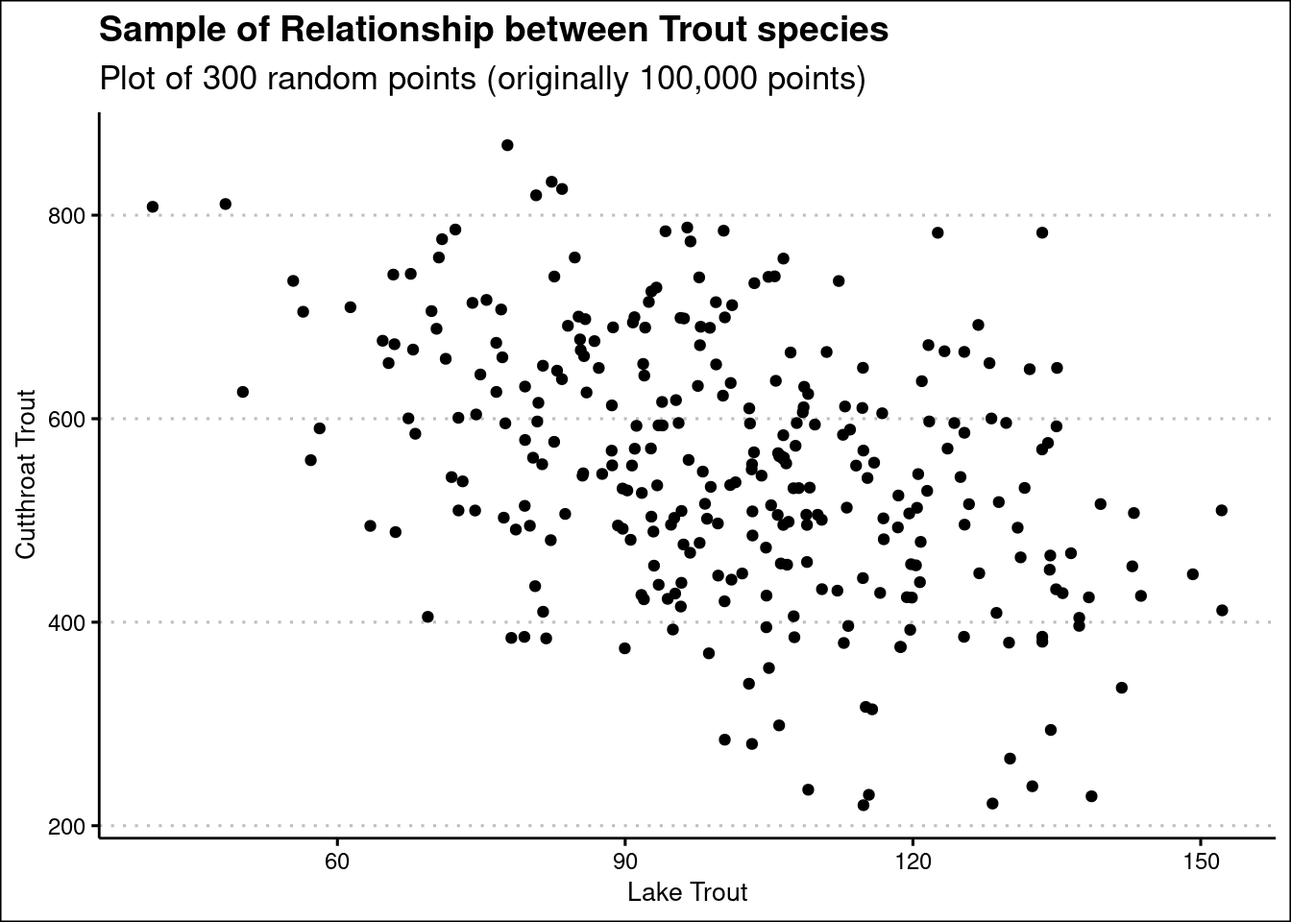
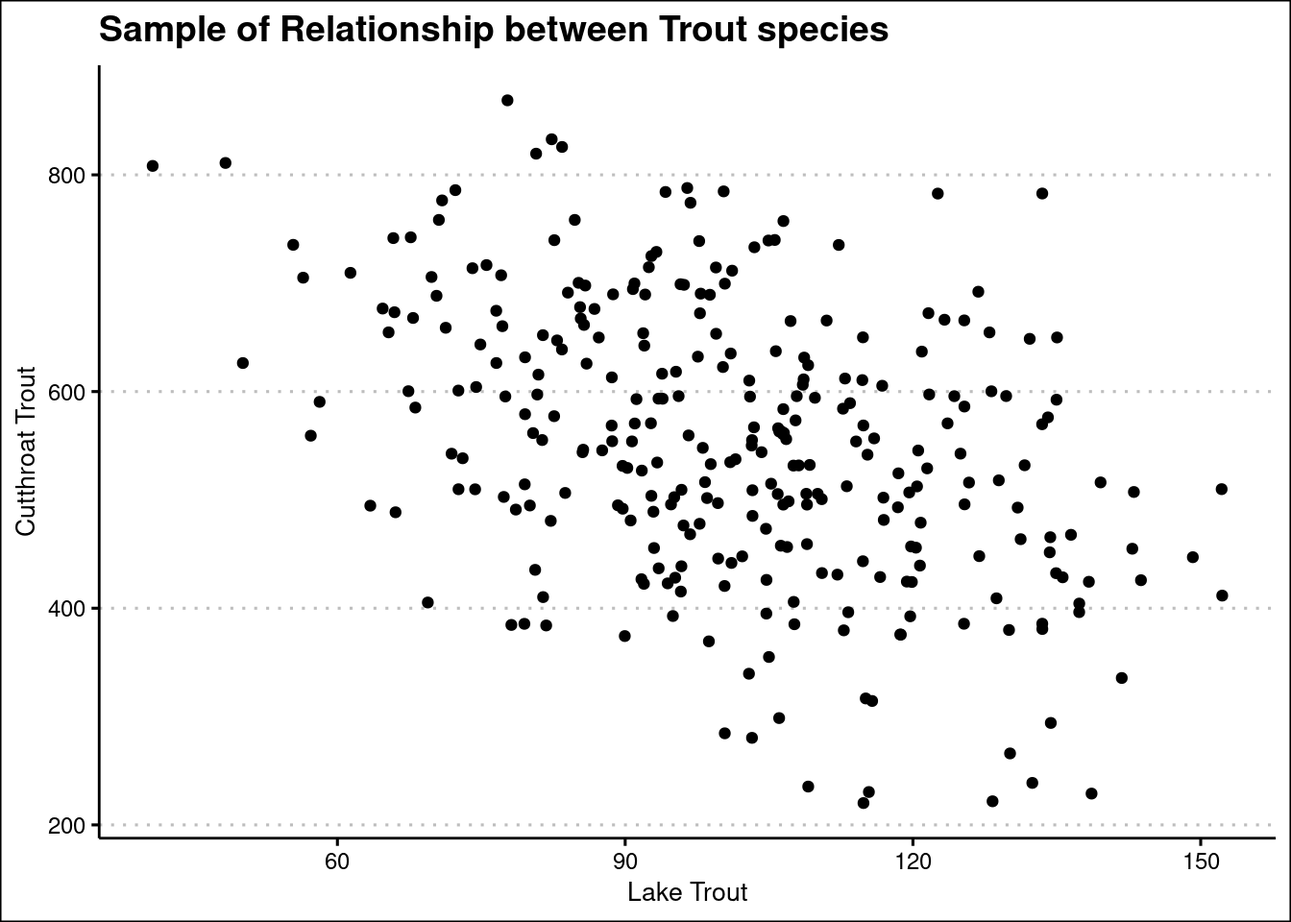
Add visualization and edit functions

diff --git a/hw2.html b/hw2.html
@@ -165,14 +165,13 @@ code span.wa { color: #60a0b0; font-weight: bold; font-style: italic; } /* Warni
 <span id="cb3-5"><a href="#cb3-5" aria-hidden="true" tabindex="-1"></a>  <span class="fu">geom_point</span>()<span class="sc">+</span></span>
 <span id="cb3-6"><a href="#cb3-6" aria-hidden="true" tabindex="-1"></a>  <span class="fu">labs</span>(<span class="at">x =</span> <span class="st">'Lake Trout'</span>,</span>
 <span id="cb3-7"><a href="#cb3-7" aria-hidden="true" tabindex="-1"></a>       <span class="at">y =</span> <span class="st">'Cutthroat Trout'</span>,</span>
-<span id="cb3-8"><a href="#cb3-8" aria-hidden="true" tabindex="-1"></a>       <span class="at">title =</span> <span class="st">'Sample of Relationship between Trout species'</span>,</span>
-<span id="cb3-9"><a href="#cb3-9" aria-hidden="true" tabindex="-1"></a>       <span class="at">subtitle =</span> <span class="st">'Plot of 300 random points (originally 100,000 points)'</span>)<span class="sc">+</span></span>
-<span id="cb3-10"><a href="#cb3-10" aria-hidden="true" tabindex="-1"></a>  ggthemes<span class="sc">::</span><span class="fu">theme_clean</span>()</span></code><button title="Copy to Clipboard" class="code-copy-button"><i class="bi"></i></button></pre></div>
+<span id="cb3-8"><a href="#cb3-8" aria-hidden="true" tabindex="-1"></a>       <span class="at">title =</span> <span class="st">'Sample of Relationship between Trout species'</span>)<span class="sc">+</span></span>
+<span id="cb3-9"><a href="#cb3-9" aria-hidden="true" tabindex="-1"></a>  ggthemes<span class="sc">::</span><span class="fu">theme_clean</span>()</span></code><button title="Copy to Clipboard" class="code-copy-button"><i class="bi"></i></button></pre></div>
 <div class="cell-output-display">
 <div id="fig-pop" class="quarto-figure quarto-figure-center anchored">
 <figure class="figure">
 <p><img src="hw2_files/figure-html/fig-pop-1.png" class="img-fluid figure-img" width="672"></p>
-<p></p><figcaption class="figure-caption">Figure&nbsp;1: <strong>?(caption)</strong></figcaption><p></p>
+<p></p><figcaption class="figure-caption">Figure&nbsp;1: Plot of 300 random points (originally 100,000 points)</figcaption><p></p>
 </figure>
 </div>
 </div>
@@ -181,26 +180,41 @@ code span.wa { color: #60a0b0; font-weight: bold; font-style: italic; } /* Warni
 <p><strong>What’s the coefficient for the effect of lake trout on cutthroat trout in your population? What is it in each of your three samples?</strong></p>
 <p>Use <code>lm()</code> to estimate each of the coefficients.</p>
 <div class="cell">
-<div class="sourceCode cell-code" id="cb4"><pre class="sourceCode r code-with-copy"><code class="sourceCode r"><span id="cb4-1"><a href="#cb4-1" aria-hidden="true" tabindex="-1"></a>trout_lm <span class="ot">&lt;-</span> <span class="fu">lm</span>(cutthroat <span class="sc">~</span> lake_trout, trout_sp);<span class="fu">summary</span>(trout_lm)</span></code><button title="Copy to Clipboard" class="code-copy-button"><i class="bi"></i></button></pre></div>
+<div class="sourceCode cell-code" id="cb4"><pre class="sourceCode r code-with-copy"><code class="sourceCode r"><span id="cb4-1"><a href="#cb4-1" aria-hidden="true" tabindex="-1"></a>sample_list <span class="ot">&lt;-</span> <span class="fu">map</span>(<span class="dv">1</span><span class="sc">:</span><span class="dv">3</span>, <span class="sc">~</span>{</span>
+<span id="cb4-2"><a href="#cb4-2" aria-hidden="true" tabindex="-1"></a></span>
+<span id="cb4-3"><a href="#cb4-3" aria-hidden="true" tabindex="-1"></a> <span class="fu">assign</span>(<span class="fu">paste0</span>(<span class="st">'lake_spl'</span>,.x), <span class="fu">slice_sample</span>(trout_sp, <span class="at">n=</span> <span class="dv">30</span>, <span class="at">replace =</span> <span class="cn">FALSE</span>), <span class="at">envir =</span> .GlobalEnv)</span>
+<span id="cb4-4"><a href="#cb4-4" aria-hidden="true" tabindex="-1"></a>})</span>
+<span id="cb4-5"><a href="#cb4-5" aria-hidden="true" tabindex="-1"></a></span>
+<span id="cb4-6"><a href="#cb4-6" aria-hidden="true" tabindex="-1"></a><span class="cf">for</span> (i <span class="cf">in</span> <span class="fu">seq_along</span>(sample_list)) {</span>
+<span id="cb4-7"><a href="#cb4-7" aria-hidden="true" tabindex="-1"></a></span>
+<span id="cb4-8"><a href="#cb4-8" aria-hidden="true" tabindex="-1"></a>lake_lm <span class="ot">&lt;-</span> <span class="fu">lm</span>(cutthroat <span class="sc">~</span> lake_trout, <span class="at">data =</span> sample_list[[i]])</span>
+<span id="cb4-9"><a href="#cb4-9" aria-hidden="true" tabindex="-1"></a></span>
+<span id="cb4-10"><a href="#cb4-10" aria-hidden="true" tabindex="-1"></a></span>
+<span id="cb4-11"><a href="#cb4-11" aria-hidden="true" tabindex="-1"></a><span class="fu">print</span>(<span class="fu">paste0</span>(<span class="st">'Lake_spl'</span>,{i}, <span class="st">' coefficients are:'</span>))</span>
+<span id="cb4-12"><a href="#cb4-12" aria-hidden="true" tabindex="-1"></a><span class="fu">print</span>(<span class="fu">coef</span>(lake_lm))</span>
+<span id="cb4-13"><a href="#cb4-13" aria-hidden="true" tabindex="-1"></a>}</span></code><button title="Copy to Clipboard" class="code-copy-button"><i class="bi"></i></button></pre></div>
 <div class="cell-output cell-output-stdout">
-<pre><code>
-Call:
-lm(formula = cutthroat ~ lake_trout, data = trout_sp)
-
-Residuals:
-    Min      1Q  Median      3Q     Max 
--526.63  -80.86   -0.09   80.77  504.29 
-
-Coefficients:
-             Estimate Std. Error t value Pr(&gt;|t|)    
-(Intercept) 802.22844    1.94336   412.8   &lt;2e-16 ***
-lake_trout   -2.51602    0.01905  -132.1   &lt;2e-16 ***
----
-Signif. codes:  0 '***' 0.001 '**' 0.01 '*' 0.05 '.' 0.1 ' ' 1
-
-Residual standard error: 120.5 on 99998 degrees of freedom
-Multiple R-squared:  0.1485,    Adjusted R-squared:  0.1485 
-F-statistic: 1.744e+04 on 1 and 99998 DF,  p-value: &lt; 2.2e-16</code></pre>
+<pre><code>[1] "Lake_spl1 coefficients are:"
+(Intercept)  lake_trout 
+ 744.452443   -2.170286 
+[1] "Lake_spl2 coefficients are:"
+(Intercept)  lake_trout 
+ 864.122683   -3.201993 
+[1] "Lake_spl3 coefficients are:"
+(Intercept)  lake_trout 
+ 991.984445   -4.464071 </code></pre>
+</div>
+<div class="sourceCode cell-code" id="cb6"><pre class="sourceCode r code-with-copy"><code class="sourceCode r"><span id="cb6-1"><a href="#cb6-1" aria-hidden="true" tabindex="-1"></a>pop_lm <span class="ot">&lt;-</span> <span class="fu">lm</span>(cutthroat <span class="sc">~</span> lake_trout, <span class="at">data =</span> trout_sp)</span>
+<span id="cb6-2"><a href="#cb6-2" aria-hidden="true" tabindex="-1"></a></span>
+<span id="cb6-3"><a href="#cb6-3" aria-hidden="true" tabindex="-1"></a></span>
+<span id="cb6-4"><a href="#cb6-4" aria-hidden="true" tabindex="-1"></a><span class="fu">print</span>(<span class="st">'Population coefficients are:'</span>)</span></code><button title="Copy to Clipboard" class="code-copy-button"><i class="bi"></i></button></pre></div>
+<div class="cell-output cell-output-stdout">
+<pre><code>[1] "Population coefficients are:"</code></pre>
+</div>
+<div class="sourceCode cell-code" id="cb8"><pre class="sourceCode r code-with-copy"><code class="sourceCode r"><span id="cb8-1"><a href="#cb8-1" aria-hidden="true" tabindex="-1"></a><span class="fu">print</span>(<span class="fu">coef</span>(pop_lm))</span></code><button title="Copy to Clipboard" class="code-copy-button"><i class="bi"></i></button></pre></div>
+<div class="cell-output cell-output-stdout">
+<pre><code>(Intercept)  lake_trout 
+ 802.228444   -2.516023 </code></pre>
 </div>
 </div>
 </section>
@@ -240,34 +254,34 @@ body_mass_g_pval &lt;- penguin_summary$coefficients[2, 4]</code></pre>
 </ol>
 <p>Call <code>p_dist</code> for <code>n</code>’s of 30, 50, and 100. <strong>What fraction of the p values are less than 0.05 for each sample size?</strong></p>
 <div class="cell">
-<div class="sourceCode cell-code" id="cb7"><pre class="sourceCode r code-with-copy"><code class="sourceCode r"><span id="cb7-1"><a href="#cb7-1" aria-hidden="true" tabindex="-1"></a>p_dist <span class="ot">&lt;-</span> <span class="cf">function</span>(n){</span>
-<span id="cb7-2"><a href="#cb7-2" aria-hidden="true" tabindex="-1"></a>  <span class="fu">map_dbl</span>(<span class="dv">1</span><span class="sc">:</span><span class="dv">1000</span>, <span class="sc">~</span>{</span>
-<span id="cb7-3"><a href="#cb7-3" aria-hidden="true" tabindex="-1"></a>trout_sample  <span class="ot">&lt;-</span> trout_sp[<span class="fu">sample</span>(<span class="fu">nrow</span>(trout_sp), n), ]</span>
-<span id="cb7-4"><a href="#cb7-4" aria-hidden="true" tabindex="-1"></a>trout_lm <span class="ot">&lt;-</span> <span class="fu">lm</span>(cutthroat <span class="sc">~</span> lake_trout, trout_sample)</span>
-<span id="cb7-5"><a href="#cb7-5" aria-hidden="true" tabindex="-1"></a>trout_lm_summary <span class="ot">&lt;-</span> <span class="fu">summary</span>(trout_lm)</span>
-<span id="cb7-6"><a href="#cb7-6" aria-hidden="true" tabindex="-1"></a>trout_coefs <span class="ot">&lt;-</span> trout_lm_summary<span class="sc">$</span>coefficients[<span class="dv">2</span>, <span class="dv">4</span>]</span>
-<span id="cb7-7"><a href="#cb7-7" aria-hidden="true" tabindex="-1"></a><span class="fu">return</span>(trout_coefs)</span>
-<span id="cb7-8"><a href="#cb7-8" aria-hidden="true" tabindex="-1"></a>})</span>
-<span id="cb7-9"><a href="#cb7-9" aria-hidden="true" tabindex="-1"></a>}</span>
-<span id="cb7-10"><a href="#cb7-10" aria-hidden="true" tabindex="-1"></a></span>
-<span id="cb7-11"><a href="#cb7-11" aria-hidden="true" tabindex="-1"></a></span>
-<span id="cb7-12"><a href="#cb7-12" aria-hidden="true" tabindex="-1"></a>n_30_fraction <span class="ot">&lt;-</span> <span class="fu">sum</span>(<span class="fu">p_dist</span>(<span class="dv">30</span>) <span class="sc">&lt;</span> .<span class="dv">05</span>) <span class="sc">/</span> <span class="fu">length</span>(<span class="fu">p_dist</span>(<span class="dv">30</span>))</span>
-<span id="cb7-13"><a href="#cb7-13" aria-hidden="true" tabindex="-1"></a></span>
-<span id="cb7-14"><a href="#cb7-14" aria-hidden="true" tabindex="-1"></a>n_50_fraction <span class="ot">&lt;-</span> <span class="fu">sum</span>(<span class="fu">p_dist</span>(<span class="dv">50</span>) <span class="sc">&lt;</span> .<span class="dv">05</span>) <span class="sc">/</span> <span class="fu">length</span>(<span class="fu">p_dist</span>(<span class="dv">50</span>))</span>
-<span id="cb7-15"><a href="#cb7-15" aria-hidden="true" tabindex="-1"></a></span>
-<span id="cb7-16"><a href="#cb7-16" aria-hidden="true" tabindex="-1"></a>n_100_fraction <span class="ot">&lt;-</span> <span class="fu">sum</span>(<span class="fu">p_dist</span>(<span class="dv">100</span>) <span class="sc">&lt;</span> .<span class="dv">05</span>) <span class="sc">/</span> <span class="fu">length</span>(<span class="fu">p_dist</span>(<span class="dv">100</span>))</span>
-<span id="cb7-17"><a href="#cb7-17" aria-hidden="true" tabindex="-1"></a></span>
-<span id="cb7-18"><a href="#cb7-18" aria-hidden="true" tabindex="-1"></a><span class="fu">print</span>(<span class="fu">paste</span>(<span class="st">'At n = 30 the sample results in p_values below .05 in'</span>, n_30_fraction <span class="sc">*</span> <span class="dv">100</span>,<span class="st">'% of the cases'</span>))</span></code><button title="Copy to Clipboard" class="code-copy-button"><i class="bi"></i></button></pre></div>
+<div class="sourceCode cell-code" id="cb11"><pre class="sourceCode r code-with-copy"><code class="sourceCode r"><span id="cb11-1"><a href="#cb11-1" aria-hidden="true" tabindex="-1"></a>p_dist <span class="ot">&lt;-</span> <span class="cf">function</span>(n){</span>
+<span id="cb11-2"><a href="#cb11-2" aria-hidden="true" tabindex="-1"></a>  <span class="fu">map_dbl</span>(<span class="dv">1</span><span class="sc">:</span><span class="dv">1000</span>, <span class="sc">~</span>{</span>
+<span id="cb11-3"><a href="#cb11-3" aria-hidden="true" tabindex="-1"></a>trout_sample  <span class="ot">&lt;-</span> trout_sp[<span class="fu">sample</span>(<span class="fu">nrow</span>(trout_sp), n), ]</span>
+<span id="cb11-4"><a href="#cb11-4" aria-hidden="true" tabindex="-1"></a>trout_lm <span class="ot">&lt;-</span> <span class="fu">lm</span>(cutthroat <span class="sc">~</span> lake_trout, trout_sample)</span>
+<span id="cb11-5"><a href="#cb11-5" aria-hidden="true" tabindex="-1"></a>trout_lm_summary <span class="ot">&lt;-</span> <span class="fu">summary</span>(trout_lm)</span>
+<span id="cb11-6"><a href="#cb11-6" aria-hidden="true" tabindex="-1"></a>trout_coefs <span class="ot">&lt;-</span> trout_lm_summary<span class="sc">$</span>coefficients[<span class="dv">2</span>, <span class="dv">4</span>]</span>
+<span id="cb11-7"><a href="#cb11-7" aria-hidden="true" tabindex="-1"></a><span class="fu">return</span>(trout_coefs)</span>
+<span id="cb11-8"><a href="#cb11-8" aria-hidden="true" tabindex="-1"></a>})</span>
+<span id="cb11-9"><a href="#cb11-9" aria-hidden="true" tabindex="-1"></a>}</span>
+<span id="cb11-10"><a href="#cb11-10" aria-hidden="true" tabindex="-1"></a></span>
+<span id="cb11-11"><a href="#cb11-11" aria-hidden="true" tabindex="-1"></a></span>
+<span id="cb11-12"><a href="#cb11-12" aria-hidden="true" tabindex="-1"></a>n_30_fraction <span class="ot">&lt;-</span> <span class="fu">sum</span>(<span class="fu">p_dist</span>(<span class="dv">30</span>) <span class="sc">&lt;</span> .<span class="dv">05</span>) <span class="sc">/</span> <span class="fu">length</span>(<span class="fu">p_dist</span>(<span class="dv">30</span>))</span>
+<span id="cb11-13"><a href="#cb11-13" aria-hidden="true" tabindex="-1"></a></span>
+<span id="cb11-14"><a href="#cb11-14" aria-hidden="true" tabindex="-1"></a>n_50_fraction <span class="ot">&lt;-</span> <span class="fu">sum</span>(<span class="fu">p_dist</span>(<span class="dv">50</span>) <span class="sc">&lt;</span> .<span class="dv">05</span>) <span class="sc">/</span> <span class="fu">length</span>(<span class="fu">p_dist</span>(<span class="dv">50</span>))</span>
+<span id="cb11-15"><a href="#cb11-15" aria-hidden="true" tabindex="-1"></a></span>
+<span id="cb11-16"><a href="#cb11-16" aria-hidden="true" tabindex="-1"></a>n_100_fraction <span class="ot">&lt;-</span> <span class="fu">sum</span>(<span class="fu">p_dist</span>(<span class="dv">100</span>) <span class="sc">&lt;</span> .<span class="dv">05</span>) <span class="sc">/</span> <span class="fu">length</span>(<span class="fu">p_dist</span>(<span class="dv">100</span>))</span>
+<span id="cb11-17"><a href="#cb11-17" aria-hidden="true" tabindex="-1"></a></span>
+<span id="cb11-18"><a href="#cb11-18" aria-hidden="true" tabindex="-1"></a><span class="fu">print</span>(<span class="fu">paste</span>(<span class="st">'At n = 30 the sample results in p_values below .05 in'</span>, n_30_fraction <span class="sc">*</span> <span class="dv">100</span>,<span class="st">'% of the cases'</span>))</span></code><button title="Copy to Clipboard" class="code-copy-button"><i class="bi"></i></button></pre></div>
 <div class="cell-output cell-output-stdout">
 <pre><code>[1] "At n = 30 the sample results in p_values below .05 in 61.2 % of the cases"</code></pre>
 </div>
-<div class="sourceCode cell-code" id="cb9"><pre class="sourceCode r code-with-copy"><code class="sourceCode r"><span id="cb9-1"><a href="#cb9-1" aria-hidden="true" tabindex="-1"></a><span class="fu">print</span>(<span class="fu">paste</span>(<span class="st">'At n = 50 the sample results in p_values below .05 in'</span>, n_50_fraction <span class="sc">*</span> <span class="dv">100</span>,<span class="st">'% of the cases'</span>))</span></code><button title="Copy to Clipboard" class="code-copy-button"><i class="bi"></i></button></pre></div>
+<div class="sourceCode cell-code" id="cb13"><pre class="sourceCode r code-with-copy"><code class="sourceCode r"><span id="cb13-1"><a href="#cb13-1" aria-hidden="true" tabindex="-1"></a><span class="fu">print</span>(<span class="fu">paste</span>(<span class="st">'At n = 50 the sample results in p_values below .05 in'</span>, n_50_fraction <span class="sc">*</span> <span class="dv">100</span>,<span class="st">'% of the cases'</span>))</span></code><button title="Copy to Clipboard" class="code-copy-button"><i class="bi"></i></button></pre></div>
 <div class="cell-output cell-output-stdout">
-<pre><code>[1] "At n = 50 the sample results in p_values below .05 in 80.3 % of the cases"</code></pre>
+<pre><code>[1] "At n = 50 the sample results in p_values below .05 in 80 % of the cases"</code></pre>
 </div>
-<div class="sourceCode cell-code" id="cb11"><pre class="sourceCode r code-with-copy"><code class="sourceCode r"><span id="cb11-1"><a href="#cb11-1" aria-hidden="true" tabindex="-1"></a><span class="fu">print</span>(<span class="fu">paste</span>(<span class="st">'At n = 100 the sample results in p_values below .05 in'</span>, n_100_fraction <span class="sc">*</span> <span class="dv">100</span>,<span class="st">'% of the cases'</span>))</span></code><button title="Copy to Clipboard" class="code-copy-button"><i class="bi"></i></button></pre></div>
+<div class="sourceCode cell-code" id="cb15"><pre class="sourceCode r code-with-copy"><code class="sourceCode r"><span id="cb15-1"><a href="#cb15-1" aria-hidden="true" tabindex="-1"></a><span class="fu">print</span>(<span class="fu">paste</span>(<span class="st">'At n = 100 the sample results in p_values below .05 in'</span>, n_100_fraction <span class="sc">*</span> <span class="dv">100</span>,<span class="st">'% of the cases'</span>))</span></code><button title="Copy to Clipboard" class="code-copy-button"><i class="bi"></i></button></pre></div>
 <div class="cell-output cell-output-stdout">
-<pre><code>[1] "At n = 100 the sample results in p_values below .05 in 97.9 % of the cases"</code></pre>
+<pre><code>[1] "At n = 100 the sample results in p_values below .05 in 98.3 % of the cases"</code></pre>
 </div>
 </div>
 <p>Consider your results in the context of a lake resource manager. This resource manager is trying to decide if increasing lake trout abundances are causing a decline in cutthroat trout. They collect data from thirty lakes, fit a linear model, and find a p value for the coefficient of lake trout of 0.11. The manager says “With a p value this high, I don’t think lake trout are causing the decline.” <strong>How would you respond to the manager’s interpretation?</strong></p>
@@ -286,43 +300,57 @@ body_mass_g_pval &lt;- penguin_summary$coefficients[2, 4]</code></pre>
 <p>Then, repeat this process for a smaller sample size. Draw <code>small_sample</code> with 30 observations, use it to make <code>small_boot</code>, and construct the 95% CI of the lake trout coefficient.</p>
 <p><strong>Compare the CIs for the two samples. How did the width of the CI change from the large to the small sample?</strong></p>
 <div class="cell">
-<div class="sourceCode cell-code" id="cb13"><pre class="sourceCode r code-with-copy"><code class="sourceCode r"><span id="cb13-1"><a href="#cb13-1" aria-hidden="true" tabindex="-1"></a>big_sample  <span class="ot">&lt;-</span> trout_sp[<span class="fu">sample</span>(<span class="fu">nrow</span>(trout_sp), <span class="dv">100</span>), ]</span>
-<span id="cb13-2"><a href="#cb13-2" aria-hidden="true" tabindex="-1"></a></span>
-<span id="cb13-3"><a href="#cb13-3" aria-hidden="true" tabindex="-1"></a>big_boot <span class="ot">&lt;-</span> <span class="fu">map_dbl</span>(<span class="dv">1</span><span class="sc">:</span><span class="dv">1000</span>, <span class="cf">function</span>(i){</span>
-<span id="cb13-4"><a href="#cb13-4" aria-hidden="true" tabindex="-1"></a>boot_sample <span class="ot">=</span> <span class="fu">sample</span>(<span class="fu">nrow</span>(big_sample), <span class="dv">100</span>, <span class="at">replace =</span> <span class="cn">TRUE</span>)</span>
-<span id="cb13-5"><a href="#cb13-5" aria-hidden="true" tabindex="-1"></a>one_boot <span class="ot">&lt;-</span> big_sample[boot_sample, ]</span>
-<span id="cb13-6"><a href="#cb13-6" aria-hidden="true" tabindex="-1"></a>trout_lm <span class="ot">&lt;-</span> <span class="fu">lm</span>(cutthroat <span class="sc">~</span> lake_trout, one_boot)</span>
-<span id="cb13-7"><a href="#cb13-7" aria-hidden="true" tabindex="-1"></a>trout_lm_summary <span class="ot">&lt;-</span> <span class="fu">summary</span>(trout_lm)</span>
-<span id="cb13-8"><a href="#cb13-8" aria-hidden="true" tabindex="-1"></a>trout_coefs <span class="ot">&lt;-</span> trout_lm_summary<span class="sc">$</span>coefficients[<span class="dv">2</span>, <span class="dv">1</span>]</span>
-<span id="cb13-9"><a href="#cb13-9" aria-hidden="true" tabindex="-1"></a><span class="fu">return</span>(trout_coefs)</span>
-<span id="cb13-10"><a href="#cb13-10" aria-hidden="true" tabindex="-1"></a>  })</span>
-<span id="cb13-11"><a href="#cb13-11" aria-hidden="true" tabindex="-1"></a></span>
-<span id="cb13-12"><a href="#cb13-12" aria-hidden="true" tabindex="-1"></a>small_sample <span class="ot">&lt;-</span> trout_sp[<span class="fu">sample</span>(<span class="fu">nrow</span>(trout_sp), <span class="dv">30</span>), ]</span>
-<span id="cb13-13"><a href="#cb13-13" aria-hidden="true" tabindex="-1"></a></span>
-<span id="cb13-14"><a href="#cb13-14" aria-hidden="true" tabindex="-1"></a>small_boot <span class="ot">&lt;-</span> <span class="fu">map_dbl</span>(<span class="dv">1</span><span class="sc">:</span><span class="dv">1000</span>, <span class="cf">function</span>(i){</span>
-<span id="cb13-15"><a href="#cb13-15" aria-hidden="true" tabindex="-1"></a>boot_sample <span class="ot">=</span> <span class="fu">sample</span>(<span class="fu">nrow</span>(big_sample), <span class="dv">30</span>, <span class="at">replace =</span> <span class="cn">TRUE</span>)</span>
-<span id="cb13-16"><a href="#cb13-16" aria-hidden="true" tabindex="-1"></a>one_boot <span class="ot">&lt;-</span> big_sample[boot_sample, ]</span>
-<span id="cb13-17"><a href="#cb13-17" aria-hidden="true" tabindex="-1"></a>trout_lm <span class="ot">&lt;-</span> <span class="fu">lm</span>(cutthroat <span class="sc">~</span> lake_trout, one_boot)</span>
-<span id="cb13-18"><a href="#cb13-18" aria-hidden="true" tabindex="-1"></a>trout_lm_summary <span class="ot">&lt;-</span> <span class="fu">summary</span>(trout_lm)</span>
-<span id="cb13-19"><a href="#cb13-19" aria-hidden="true" tabindex="-1"></a>trout_coefs <span class="ot">&lt;-</span> trout_lm_summary<span class="sc">$</span>coefficients[<span class="dv">2</span>, <span class="dv">1</span>]</span>
-<span id="cb13-20"><a href="#cb13-20" aria-hidden="true" tabindex="-1"></a><span class="fu">return</span>(trout_coefs)</span>
-<span id="cb13-21"><a href="#cb13-21" aria-hidden="true" tabindex="-1"></a>  })</span>
-<span id="cb13-22"><a href="#cb13-22" aria-hidden="true" tabindex="-1"></a></span>
-<span id="cb13-23"><a href="#cb13-23" aria-hidden="true" tabindex="-1"></a><span class="fu">print</span>(<span class="st">'The 95% ci for the n_100 bootstrap is between: '</span>)</span></code><button title="Copy to Clipboard" class="code-copy-button"><i class="bi"></i></button></pre></div>
+<div class="sourceCode cell-code" id="cb17"><pre class="sourceCode r code-with-copy"><code class="sourceCode r"><span id="cb17-1"><a href="#cb17-1" aria-hidden="true" tabindex="-1"></a>big_sample  <span class="ot">&lt;-</span> trout_sp[<span class="fu">sample</span>(<span class="fu">nrow</span>(trout_sp), <span class="dv">100</span>), ]</span>
+<span id="cb17-2"><a href="#cb17-2" aria-hidden="true" tabindex="-1"></a></span>
+<span id="cb17-3"><a href="#cb17-3" aria-hidden="true" tabindex="-1"></a>big_boot <span class="ot">&lt;-</span> <span class="fu">map_dbl</span>(<span class="dv">1</span><span class="sc">:</span><span class="dv">1000</span>, <span class="cf">function</span>(i){</span>
+<span id="cb17-4"><a href="#cb17-4" aria-hidden="true" tabindex="-1"></a>boot_sample <span class="ot">=</span> <span class="fu">sample</span>(<span class="fu">nrow</span>(big_sample), <span class="dv">100</span>, <span class="at">replace =</span> <span class="cn">TRUE</span>)</span>
+<span id="cb17-5"><a href="#cb17-5" aria-hidden="true" tabindex="-1"></a>one_boot <span class="ot">&lt;-</span> big_sample[boot_sample, ]</span>
+<span id="cb17-6"><a href="#cb17-6" aria-hidden="true" tabindex="-1"></a>trout_lm <span class="ot">&lt;-</span> <span class="fu">lm</span>(cutthroat <span class="sc">~</span> lake_trout, one_boot)</span>
+<span id="cb17-7"><a href="#cb17-7" aria-hidden="true" tabindex="-1"></a>trout_lm_summary <span class="ot">&lt;-</span> <span class="fu">summary</span>(trout_lm)</span>
+<span id="cb17-8"><a href="#cb17-8" aria-hidden="true" tabindex="-1"></a>trout_coefs <span class="ot">&lt;-</span> trout_lm_summary<span class="sc">$</span>coefficients[<span class="dv">2</span>, <span class="dv">1</span>]</span>
+<span id="cb17-9"><a href="#cb17-9" aria-hidden="true" tabindex="-1"></a><span class="fu">return</span>(trout_coefs)</span>
+<span id="cb17-10"><a href="#cb17-10" aria-hidden="true" tabindex="-1"></a>  })</span>
+<span id="cb17-11"><a href="#cb17-11" aria-hidden="true" tabindex="-1"></a></span>
+<span id="cb17-12"><a href="#cb17-12" aria-hidden="true" tabindex="-1"></a>small_sample <span class="ot">&lt;-</span> trout_sp[<span class="fu">sample</span>(<span class="fu">nrow</span>(trout_sp), <span class="dv">30</span>), ]</span>
+<span id="cb17-13"><a href="#cb17-13" aria-hidden="true" tabindex="-1"></a></span>
+<span id="cb17-14"><a href="#cb17-14" aria-hidden="true" tabindex="-1"></a>small_boot <span class="ot">&lt;-</span> <span class="fu">map_dbl</span>(<span class="dv">1</span><span class="sc">:</span><span class="dv">1000</span>, <span class="cf">function</span>(i){</span>
+<span id="cb17-15"><a href="#cb17-15" aria-hidden="true" tabindex="-1"></a>boot_sample <span class="ot">=</span> <span class="fu">sample</span>(<span class="fu">nrow</span>(big_sample), <span class="dv">30</span>, <span class="at">replace =</span> <span class="cn">TRUE</span>)</span>
+<span id="cb17-16"><a href="#cb17-16" aria-hidden="true" tabindex="-1"></a>one_boot <span class="ot">&lt;-</span> big_sample[boot_sample, ]</span>
+<span id="cb17-17"><a href="#cb17-17" aria-hidden="true" tabindex="-1"></a>trout_lm <span class="ot">&lt;-</span> <span class="fu">lm</span>(cutthroat <span class="sc">~</span> lake_trout, one_boot)</span>
+<span id="cb17-18"><a href="#cb17-18" aria-hidden="true" tabindex="-1"></a>trout_lm_summary <span class="ot">&lt;-</span> <span class="fu">summary</span>(trout_lm)</span>
+<span id="cb17-19"><a href="#cb17-19" aria-hidden="true" tabindex="-1"></a>trout_coefs <span class="ot">&lt;-</span> trout_lm_summary<span class="sc">$</span>coefficients[<span class="dv">2</span>, <span class="dv">1</span>]</span>
+<span id="cb17-20"><a href="#cb17-20" aria-hidden="true" tabindex="-1"></a><span class="fu">return</span>(trout_coefs)</span>
+<span id="cb17-21"><a href="#cb17-21" aria-hidden="true" tabindex="-1"></a>  })</span>
+<span id="cb17-22"><a href="#cb17-22" aria-hidden="true" tabindex="-1"></a></span>
+<span id="cb17-23"><a href="#cb17-23" aria-hidden="true" tabindex="-1"></a><span class="fu">print</span>(<span class="st">'The 95% ci for the n_100 bootstrap is between: '</span>)</span></code><button title="Copy to Clipboard" class="code-copy-button"><i class="bi"></i></button></pre></div>
 <div class="cell-output cell-output-stdout">
 <pre><code>[1] "The 95% ci for the n_100 bootstrap is between: "</code></pre>
 </div>
-<div class="sourceCode cell-code" id="cb15"><pre class="sourceCode r code-with-copy"><code class="sourceCode r"><span id="cb15-1"><a href="#cb15-1" aria-hidden="true" tabindex="-1"></a><span class="fu">print</span>(<span class="fu">paste</span>(<span class="fu">quantile</span>(big_boot, <span class="at">probs =</span> .<span class="dv">025</span>),<span class="st">'and'</span>, <span class="fu">quantile</span>(big_boot, <span class="at">probs =</span> .<span class="dv">975</span>)))</span></code><button title="Copy to Clipboard" class="code-copy-button"><i class="bi"></i></button></pre></div>
+<div class="sourceCode cell-code" id="cb19"><pre class="sourceCode r code-with-copy"><code class="sourceCode r"><span id="cb19-1"><a href="#cb19-1" aria-hidden="true" tabindex="-1"></a><span class="fu">print</span>(<span class="fu">paste</span>(<span class="fu">quantile</span>(big_boot, <span class="at">probs =</span> .<span class="dv">025</span>),<span class="st">'and'</span>, <span class="fu">quantile</span>(big_boot, <span class="at">probs =</span> .<span class="dv">975</span>)))</span></code><button title="Copy to Clipboard" class="code-copy-button"><i class="bi"></i></button></pre></div>
 <div class="cell-output cell-output-stdout">
-<pre><code>[1] "-3.06471810419812 and -0.953364044281499"</code></pre>
+<pre><code>[1] "-2.78941721243861 and -0.965114904258745"</code></pre>
 </div>
-<div class="sourceCode cell-code" id="cb17"><pre class="sourceCode r code-with-copy"><code class="sourceCode r"><span id="cb17-1"><a href="#cb17-1" aria-hidden="true" tabindex="-1"></a><span class="fu">print</span>(<span class="st">'The 95% ci for the n_30 bootstrap is between: '</span>)</span></code><button title="Copy to Clipboard" class="code-copy-button"><i class="bi"></i></button></pre></div>
+<div class="sourceCode cell-code" id="cb21"><pre class="sourceCode r code-with-copy"><code class="sourceCode r"><span id="cb21-1"><a href="#cb21-1" aria-hidden="true" tabindex="-1"></a><span class="fu">print</span>(<span class="st">'The 95% ci for the n_30 bootstrap is between: '</span>)</span></code><button title="Copy to Clipboard" class="code-copy-button"><i class="bi"></i></button></pre></div>
 <div class="cell-output cell-output-stdout">
 <pre><code>[1] "The 95% ci for the n_30 bootstrap is between: "</code></pre>
 </div>
-<div class="sourceCode cell-code" id="cb19"><pre class="sourceCode r code-with-copy"><code class="sourceCode r"><span id="cb19-1"><a href="#cb19-1" aria-hidden="true" tabindex="-1"></a><span class="fu">print</span>(<span class="fu">paste</span>(<span class="fu">quantile</span>(small_boot, <span class="at">probs =</span> .<span class="dv">025</span>),<span class="st">'and'</span>, <span class="fu">quantile</span>(small_boot, <span class="at">probs =</span> .<span class="dv">975</span>)))</span></code><button title="Copy to Clipboard" class="code-copy-button"><i class="bi"></i></button></pre></div>
+<div class="sourceCode cell-code" id="cb23"><pre class="sourceCode r code-with-copy"><code class="sourceCode r"><span id="cb23-1"><a href="#cb23-1" aria-hidden="true" tabindex="-1"></a><span class="fu">print</span>(<span class="fu">paste</span>(<span class="fu">quantile</span>(small_boot, <span class="at">probs =</span> .<span class="dv">025</span>),<span class="st">'and'</span>, <span class="fu">quantile</span>(small_boot, <span class="at">probs =</span> .<span class="dv">975</span>)))</span></code><button title="Copy to Clipboard" class="code-copy-button"><i class="bi"></i></button></pre></div>
 <div class="cell-output cell-output-stdout">
-<pre><code>[1] "-4.01761135737985 and 0.265652651332936"</code></pre>
+<pre><code>[1] "-3.96710127918052 and -0.0638454448170035"</code></pre>
+</div>
+<div class="sourceCode cell-code" id="cb25"><pre class="sourceCode r code-with-copy"><code class="sourceCode r"><span id="cb25-1"><a href="#cb25-1" aria-hidden="true" tabindex="-1"></a><span class="fu">print</span>(<span class="st">'The widths of the two sample 95% CI are:'</span>)</span></code><button title="Copy to Clipboard" class="code-copy-button"><i class="bi"></i></button></pre></div>
+<div class="cell-output cell-output-stdout">
+<pre><code>[1] "The widths of the two sample 95% CI are:"</code></pre>
+</div>
+<div class="sourceCode cell-code" id="cb27"><pre class="sourceCode r code-with-copy"><code class="sourceCode r"><span id="cb27-1"><a href="#cb27-1" aria-hidden="true" tabindex="-1"></a><span class="fu">print</span>(<span class="fu">paste0</span>(<span class="st">'Big: '</span>, </span>
+<span id="cb27-2"><a href="#cb27-2" aria-hidden="true" tabindex="-1"></a>             <span class="fu">quantile</span>(big_boot, <span class="at">probs =</span> .<span class="dv">975</span>)<span class="sc">-</span> <span class="fu">quantile</span>(big_boot, <span class="at">probs =</span> .<span class="dv">025</span>)))</span></code><button title="Copy to Clipboard" class="code-copy-button"><i class="bi"></i></button></pre></div>
+<div class="cell-output cell-output-stdout">
+<pre><code>[1] "Big: 1.82430230817987"</code></pre>
+</div>
+<div class="sourceCode cell-code" id="cb29"><pre class="sourceCode r code-with-copy"><code class="sourceCode r"><span id="cb29-1"><a href="#cb29-1" aria-hidden="true" tabindex="-1"></a><span class="fu">print</span>(<span class="fu">paste0</span>(<span class="st">'Small: '</span>,</span>
+<span id="cb29-2"><a href="#cb29-2" aria-hidden="true" tabindex="-1"></a>             <span class="fu">quantile</span>(small_boot, <span class="at">probs =</span> .<span class="dv">975</span>) <span class="sc">-</span> <span class="fu">quantile</span>(small_boot, <span class="at">probs =</span> .<span class="dv">025</span>)))</span></code><button title="Copy to Clipboard" class="code-copy-button"><i class="bi"></i></button></pre></div>
+<div class="cell-output cell-output-stdout">
+<pre><code>[1] "Small: 3.90325583436352"</code></pre>
 </div>
 </div>
 </section>
@@ -339,12 +367,46 @@ body_mass_g_pval &lt;- penguin_summary$coefficients[2, 4]</code></pre>
 </ul>
 <p>Plot <code>big_sample</code> as a scatter plot. Add the best fit line and CI of the response using <code>geom_smooth()</code>. Repeat the process for <code>small_sample</code>. Use the plots to answer the following questions.</p>
 <div class="cell">
-
+<div class="sourceCode cell-code" id="cb31"><pre class="sourceCode r code-with-copy"><code class="sourceCode r"><span id="cb31-1"><a href="#cb31-1" aria-hidden="true" tabindex="-1"></a><span class="fu">library</span>(patchwork)</span>
+<span id="cb31-2"><a href="#cb31-2" aria-hidden="true" tabindex="-1"></a>big_sample_plot <span class="ot">&lt;-</span>  <span class="fu">ggplot</span>(big_sample, <span class="fu">aes</span>(lake_trout, cutthroat))<span class="sc">+</span></span>
+<span id="cb31-3"><a href="#cb31-3" aria-hidden="true" tabindex="-1"></a>  <span class="fu">geom_point</span>()<span class="sc">+</span></span>
+<span id="cb31-4"><a href="#cb31-4" aria-hidden="true" tabindex="-1"></a>  <span class="fu">geom_smooth</span>(<span class="at">method =</span> <span class="st">'lm'</span>, <span class="at">formula =</span> y<span class="sc">~</span>x, <span class="at">se =</span> <span class="cn">TRUE</span>)<span class="sc">+</span></span>
+<span id="cb31-5"><a href="#cb31-5" aria-hidden="true" tabindex="-1"></a>  <span class="fu">labs</span>( <span class="at">x=</span> <span class="st">'Lake Trout (Count)'</span>,</span>
+<span id="cb31-6"><a href="#cb31-6" aria-hidden="true" tabindex="-1"></a>        <span class="at">y =</span> <span class="st">'Cutthroat Trout (Count)'</span>,</span>
+<span id="cb31-7"><a href="#cb31-7" aria-hidden="true" tabindex="-1"></a>        <span class="at">title =</span> <span class="st">'Big Sample of Trout Species'</span>)<span class="sc">+</span></span>
+<span id="cb31-8"><a href="#cb31-8" aria-hidden="true" tabindex="-1"></a>  ggthemes<span class="sc">::</span><span class="fu">theme_clean</span>()</span>
+<span id="cb31-9"><a href="#cb31-9" aria-hidden="true" tabindex="-1"></a>  </span>
+<span id="cb31-10"><a href="#cb31-10" aria-hidden="true" tabindex="-1"></a>  </span>
+<span id="cb31-11"><a href="#cb31-11" aria-hidden="true" tabindex="-1"></a>small_sample_plot <span class="ot">&lt;-</span>  <span class="fu">ggplot</span>(small_sample, <span class="fu">aes</span>(lake_trout, cutthroat))<span class="sc">+</span></span>
+<span id="cb31-12"><a href="#cb31-12" aria-hidden="true" tabindex="-1"></a>  <span class="fu">geom_point</span>()<span class="sc">+</span></span>
+<span id="cb31-13"><a href="#cb31-13" aria-hidden="true" tabindex="-1"></a>  <span class="fu">geom_smooth</span>(<span class="at">method =</span> <span class="st">'lm'</span>, <span class="at">formula =</span> y<span class="sc">~</span>x, <span class="at">se =</span> <span class="cn">TRUE</span>)<span class="sc">+</span></span>
+<span id="cb31-14"><a href="#cb31-14" aria-hidden="true" tabindex="-1"></a>  <span class="fu">labs</span>( <span class="at">x=</span> <span class="st">'Lake Trout (Count)'</span>,</span>
+<span id="cb31-15"><a href="#cb31-15" aria-hidden="true" tabindex="-1"></a>        <span class="at">y =</span> <span class="st">'Cutthroat Trout (Count)'</span>,</span>
+<span id="cb31-16"><a href="#cb31-16" aria-hidden="true" tabindex="-1"></a>        <span class="at">title =</span> <span class="st">'Small Sample of Trout Species'</span>)<span class="sc">+</span></span>
+<span id="cb31-17"><a href="#cb31-17" aria-hidden="true" tabindex="-1"></a>  ggthemes<span class="sc">::</span><span class="fu">theme_clean</span>()</span>
+<span id="cb31-18"><a href="#cb31-18" aria-hidden="true" tabindex="-1"></a></span>
+<span id="cb31-19"><a href="#cb31-19" aria-hidden="true" tabindex="-1"></a>small_sample_plot<span class="sc">/</span>big_sample_plot</span></code><button title="Copy to Clipboard" class="code-copy-button"><i class="bi"></i></button></pre></div>
+<div class="cell-output-display">
+<p><img src="hw2_files/figure-html/ci-mean-1.png" class="img-fluid" width="576"></p>
+</div>
 </div>
 <p><strong>What is the expected (average) abundance of cutthroat trout in a lake with 80 lake trout according to the model fit to the <em>larger</em> sample?</strong></p>
+<ul>
+<li>Visually it is around 590</li>
+</ul>
 <p><strong>Same question, but according to the model fit to the <em>smaller</em> sample?</strong></p>
+<ul>
+<li>Visually it is around 580</li>
+</ul>
 <p><strong>How wide are the 95% CIs for cutthroat trout abundance in lakes with 80 lake trout in both models?</strong></p>
+<ul>
+<li><p>Big Model: visually the 95% CI is between 570 and 610</p></li>
+<li><p>Small Model: visually the 95% CI is between 500 and 660</p></li>
+</ul>
 <p><strong>Consider the mean response in the population itself (the “true” mean response). This is the line defined by the population parameters</strong> <span class="math inline">\(\beta_0\)</span> <strong>and</strong> <span class="math inline">\(\beta_1\)</span><strong>.</strong> <strong>Are 95% CIs constructed from small sample models more, less, or equally likely to cover the population mean response than large sample models?</strong></p>
+<ul>
+<li>Small sample means are less likely to cover the population mean. The larger quantity of values in the large sample, means more about the model can be explained, leading to the confidence in our population mean with a smaller range.</li>
+</ul>
 </section>
 
 </main>
